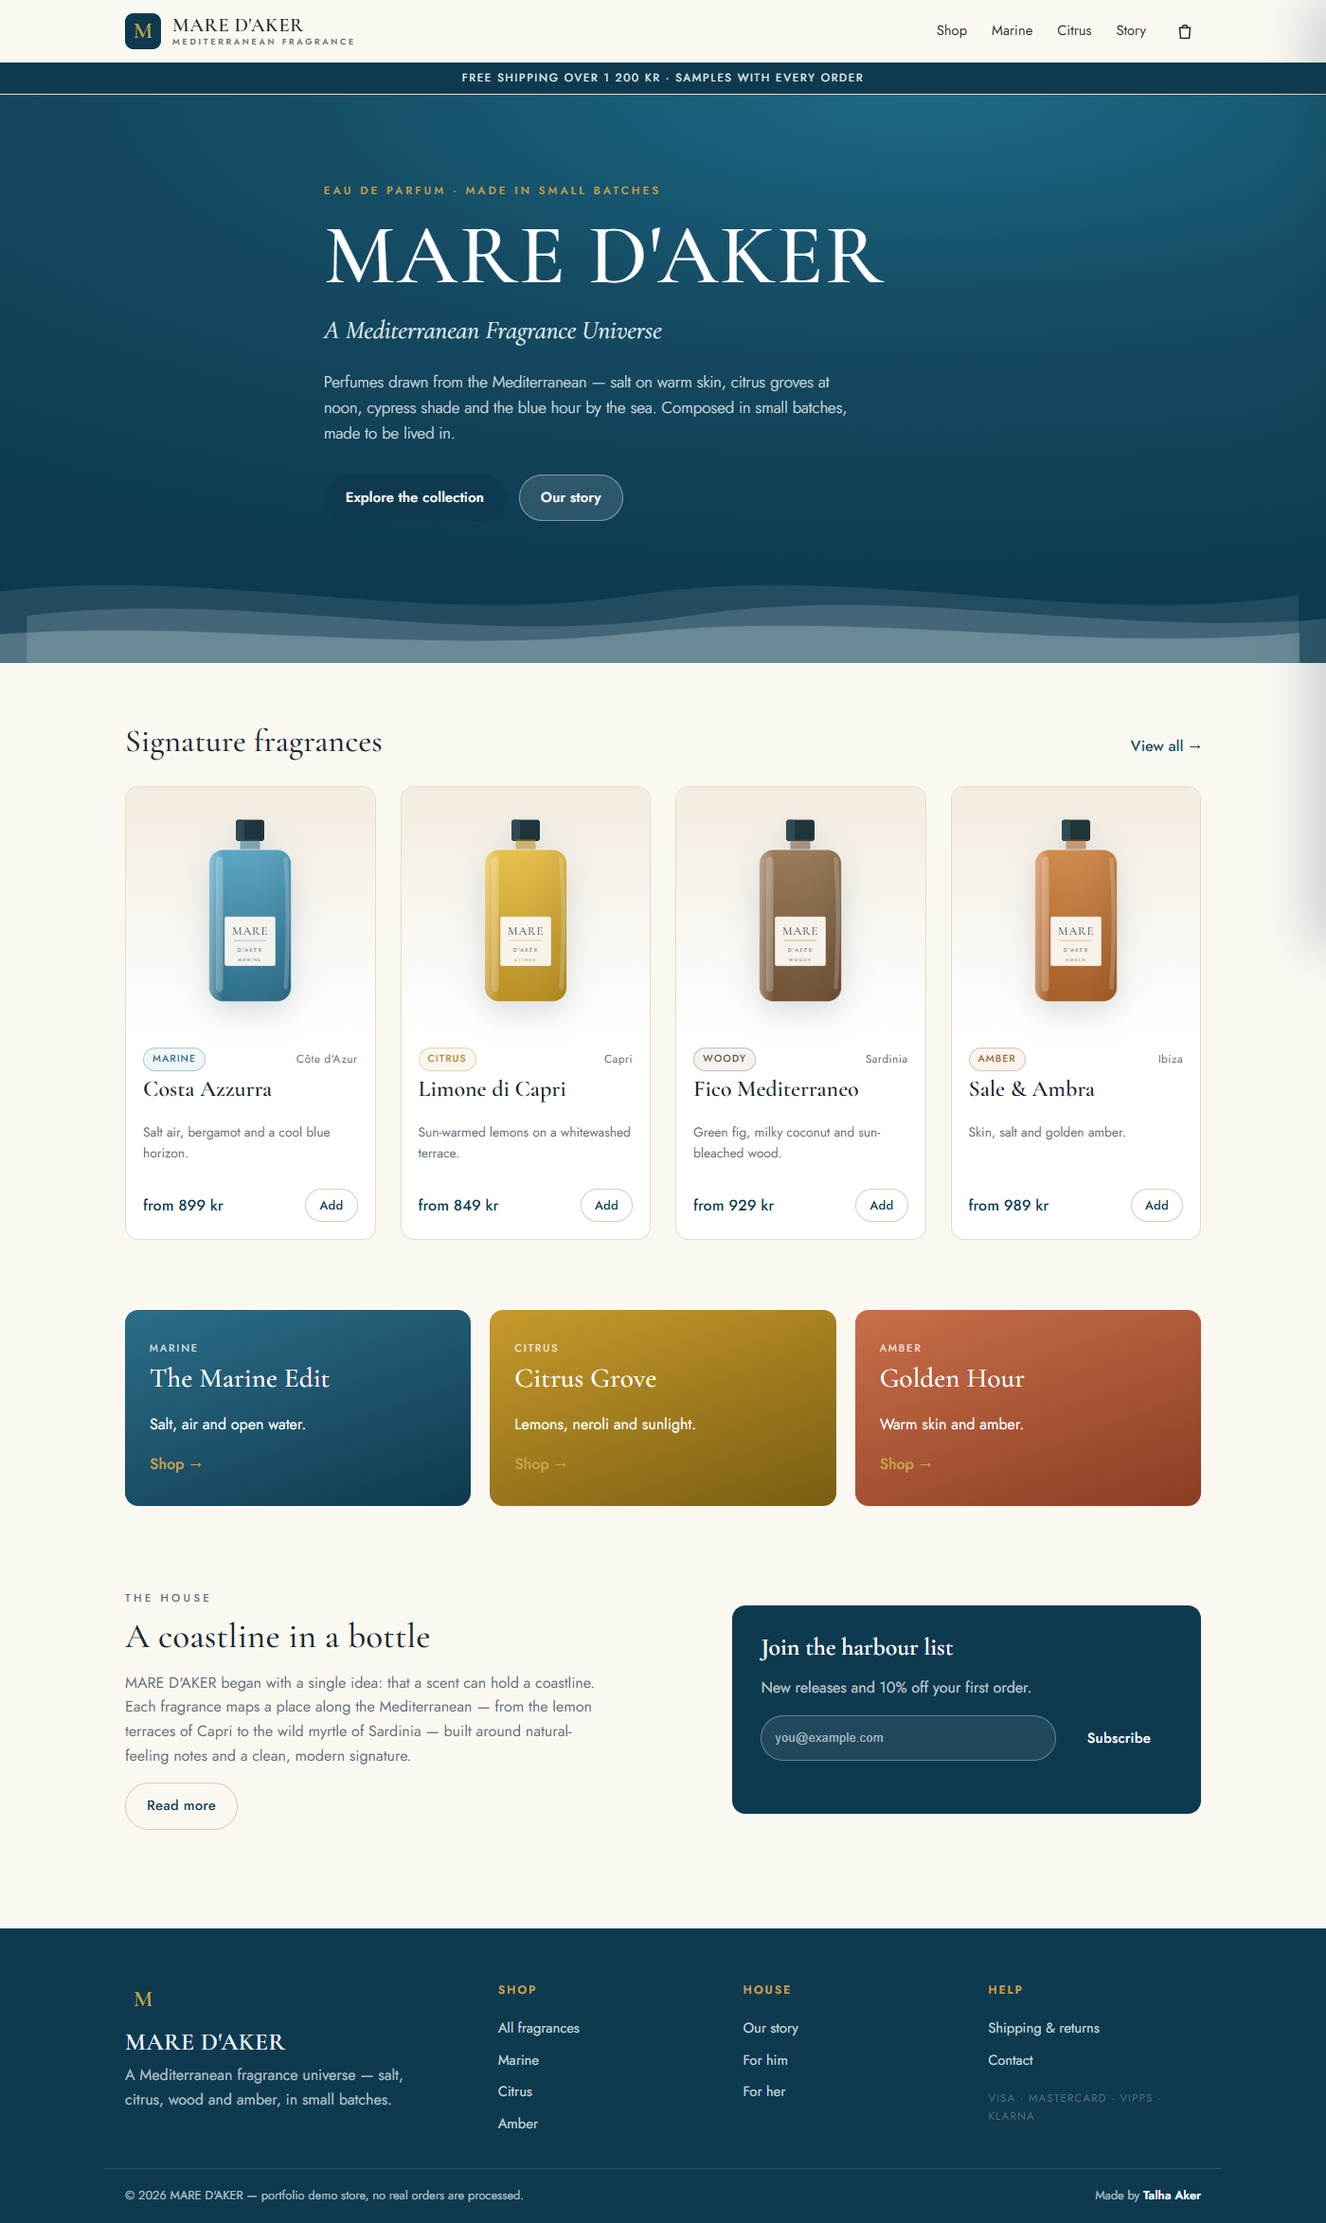
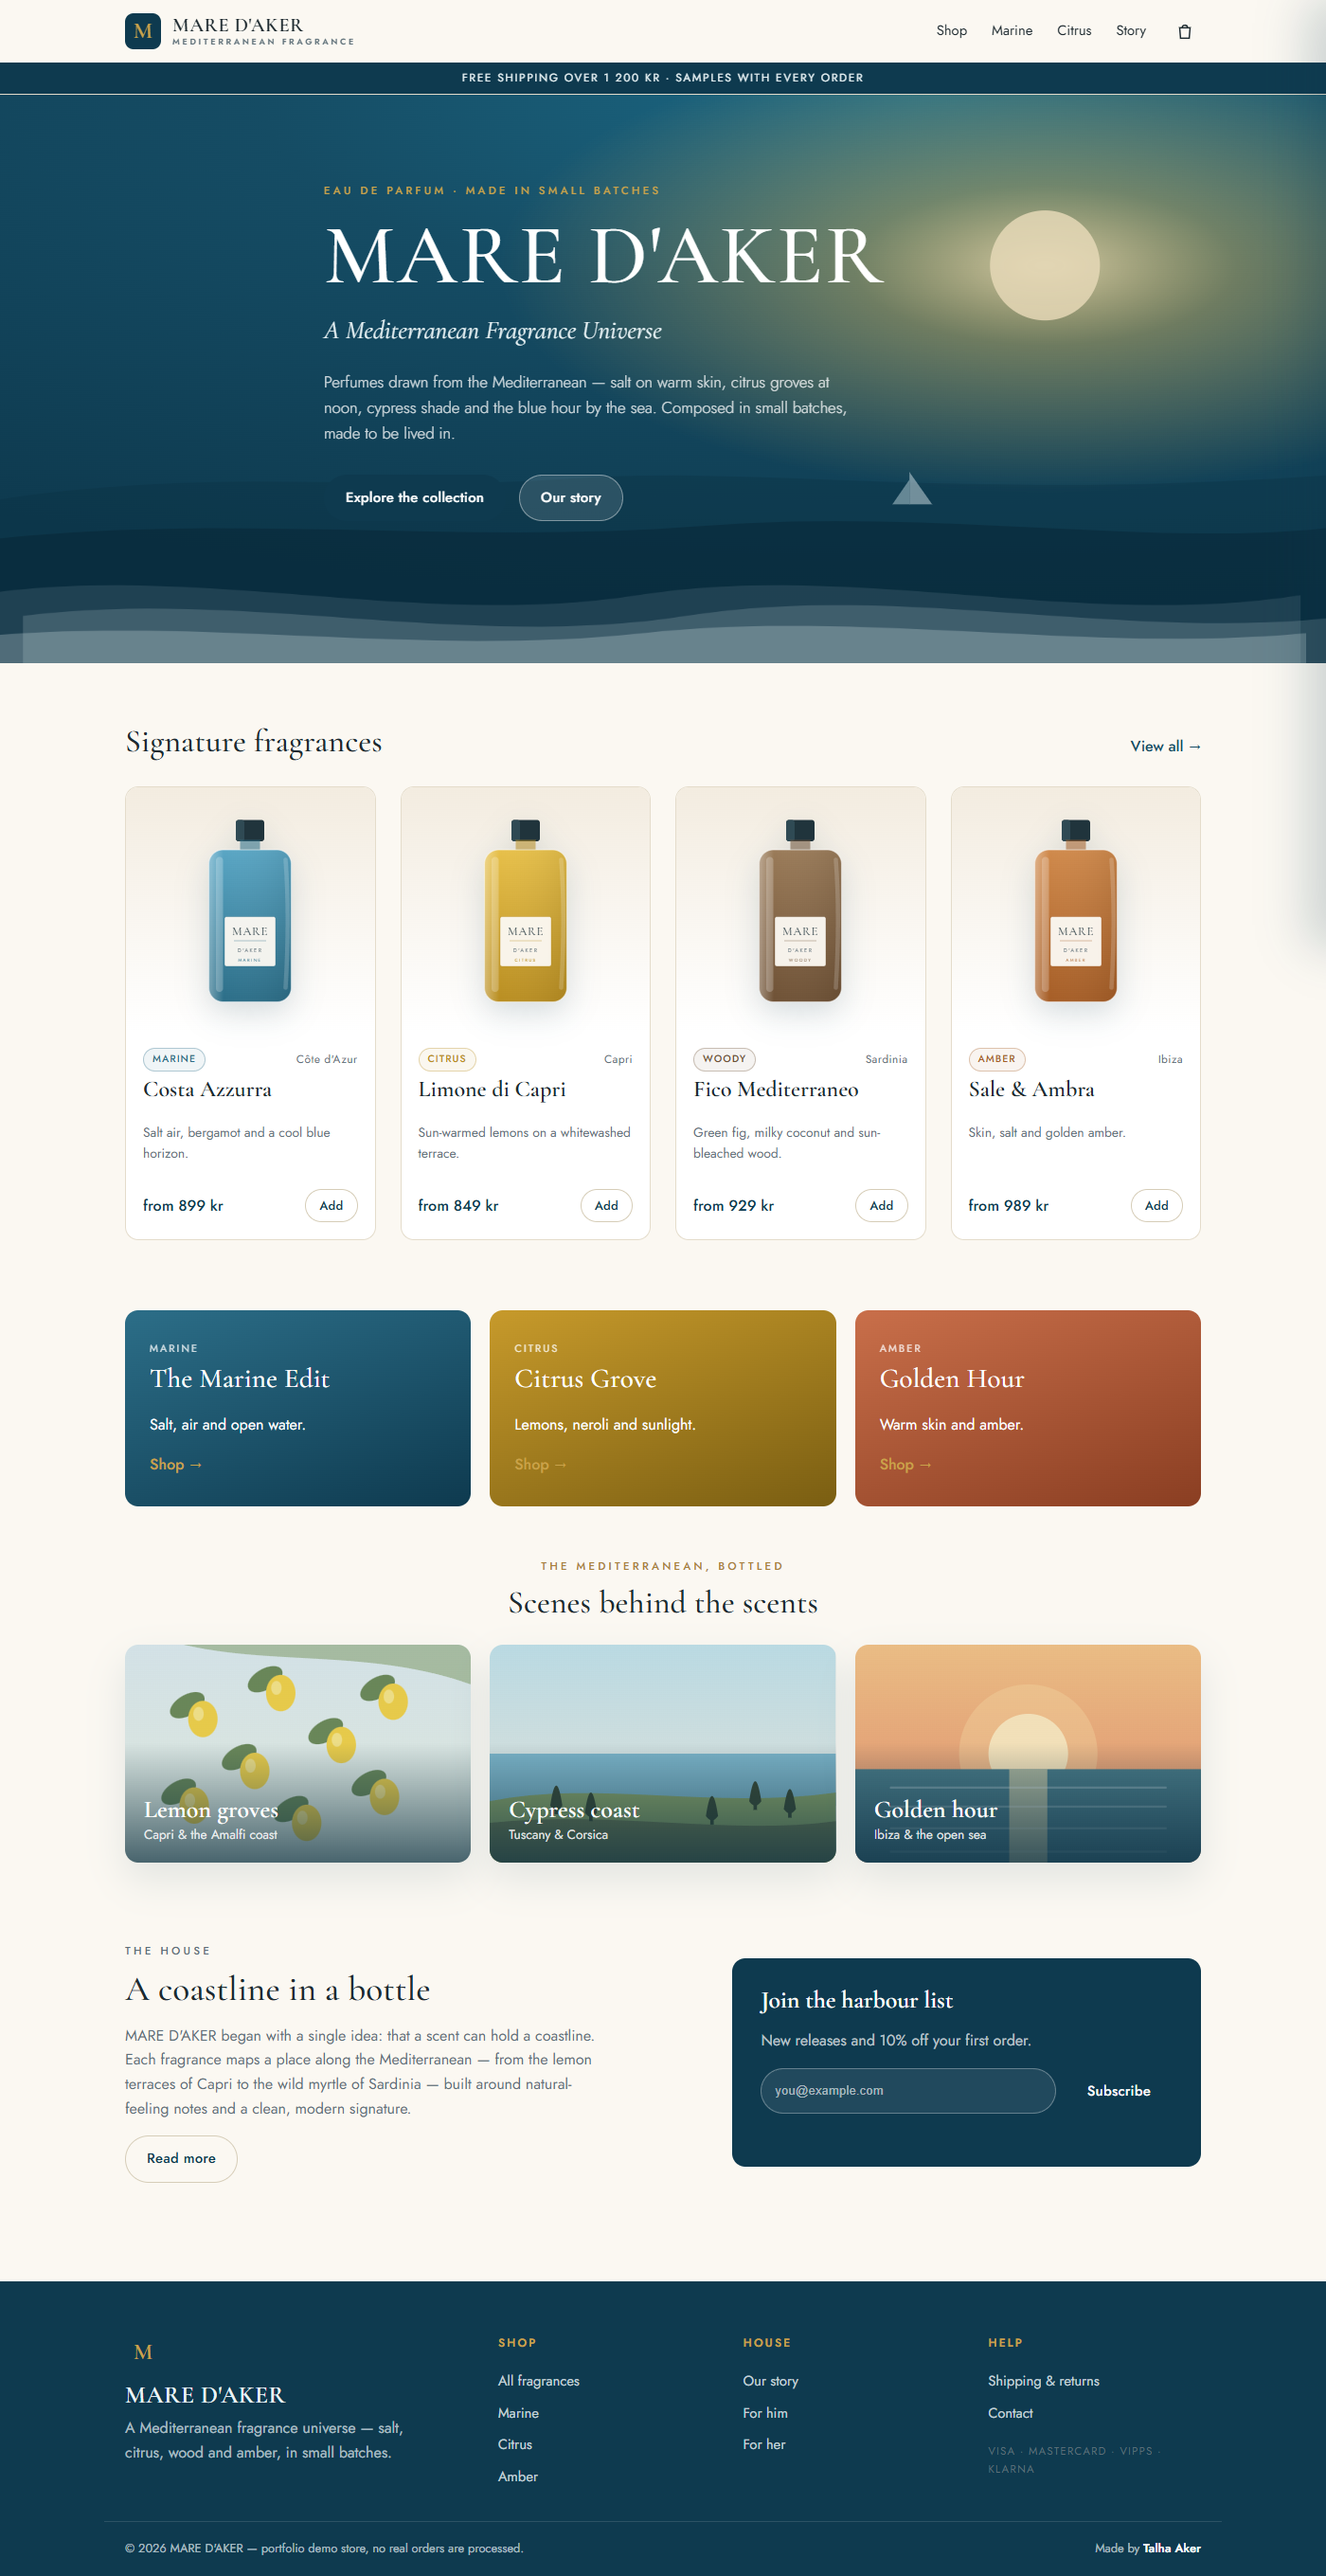
Add Mediterranean scenery: coastal hero backdrop and a scene band
Hand-built SVG scenes (sun + headlands behind the hero, plus lemon grove,
cypress coast and golden-hour vignettes) for more atmosphere. No image files.

diff --git a/js/art.js b/js/art.js
@@ -59,5 +59,61 @@ const Art = (() => {
 </svg>`;
   }
 
-  return { bottle, waves };
+  // Atmospheric coastline behind the hero: a low sun and layered headlands.
+  function heroScene() {
+    return `
+<svg class="hero-scene" viewBox="0 0 1440 600" preserveAspectRatio="xMidYMax slice" aria-hidden="true">
+  <defs>
+    <radialGradient id="sun" cx="78%" cy="30%" r="40%">
+      <stop offset="0%" stop-color="#FBE3B0" stop-opacity=".9"/>
+      <stop offset="35%" stop-color="#F2C45E" stop-opacity=".45"/>
+      <stop offset="100%" stop-color="#F2C45E" stop-opacity="0"/>
+    </radialGradient>
+  </defs>
+  <rect width="1440" height="600" fill="url(#sun)"/>
+  <circle cx="1123" cy="180" r="58" fill="#FCE6BE" opacity=".85"/>
+  <!-- distant headlands -->
+  <path d="M0,430 C240,390 420,420 620,405 C820,390 1040,430 1440,400 L1440,600 L0,600 Z" fill="#0A2E40" opacity=".35"/>
+  <path d="M0,470 C260,440 500,475 760,455 C1020,435 1240,480 1440,455 L1440,600 L0,600 Z" fill="#06202E" opacity=".45"/>
+  <!-- a small sail -->
+  <g opacity=".5"><path d="M980,432 L980,398 L1004,432 Z" fill="#EAF4F6"/><path d="M980,432 L980,406 L962,432 Z" fill="#CFE3E8"/></g>
+</svg>`;
+  }
+
+  // Minimalist Mediterranean vignettes used in the "scenery" band and About page.
+  function scene(kind) {
+    const uid = "s" + kind;
+    const sky = (c1, c2) => `<defs><linearGradient id="${uid}sky" x1="0" y1="0" x2="0" y2="1"><stop offset="0%" stop-color="${c1}"/><stop offset="100%" stop-color="${c2}"/></linearGradient></defs><rect width="400" height="300" fill="url(#${uid}sky)"/>`;
+    if (kind === "goldenhour") {
+      return `<svg class="scene" viewBox="0 0 400 300" preserveAspectRatio="xMidYMid slice" aria-hidden="true">
+        ${sky("#F7C98B", "#E88B6A")}
+        <circle cx="200" cy="150" r="46" fill="#FFF0CE" opacity=".95"/>
+        <circle cx="200" cy="150" r="80" fill="#FFE2A8" opacity=".35"/>
+        <rect y="168" width="400" height="132" fill="#2C6E88"/>
+        <rect y="168" width="400" height="132" fill="url(#${uid}sky)" opacity=".15"/>
+        <rect x="178" y="168" width="44" height="132" fill="#FFE7B0" opacity=".55"/>
+        ${[188,210,235,262].map((y,i)=>`<rect x="40" y="${y}" width="320" height="2.5" rx="1" fill="#EAF4F6" opacity="${.3-i*0.05}"/>`).join("")}
+      </svg>`;
+    }
+    if (kind === "cypress") {
+      return `<svg class="scene" viewBox="0 0 400 300" preserveAspectRatio="xMidYMid slice" aria-hidden="true">
+        ${sky("#BFE2EC", "#F3ECE0")}
+        <rect y="150" width="400" height="60" fill="#5AA6C4" opacity=".7"/>
+        <path d="M0,205 C120,180 260,215 400,195 L400,300 L0,300 Z" fill="#8FA86A"/>
+        <path d="M0,230 C140,215 280,245 400,228 L400,300 L0,300 Z" fill="#6E7A52"/>
+        ${[[70,210],[110,218],[300,205],[340,214],[250,222]].map(([x,y])=>`<path d="M${x},${y} q7,-46 14,0 q-7,10 -14,0Z" fill="#3C4A34"/><rect x="${x+5}" y="${y}" width="4" height="10" fill="#3C4A34"/>`).join("")}
+      </svg>`;
+    }
+    // lemons
+    return `<svg class="scene" viewBox="0 0 400 300" preserveAspectRatio="xMidYMid slice" aria-hidden="true">
+      ${sky("#DCEAF0", "#EAF1E2")}
+      <path d="M0,0 C120,60 260,20 400,70 L400,0 Z" fill="#7E9A5E" opacity=".5"/>
+      ${[[90,110],[180,80],[150,170],[250,140],[310,90],[300,200],[80,210],[210,230]].map(([x,y],i)=>`
+        <ellipse cx="${x-18}" cy="${y-16}" rx="22" ry="12" fill="#6E8B5A" transform="rotate(-30 ${x-18} ${y-16})"/>
+        <ellipse cx="${x}" cy="${y}" rx="17" ry="21" fill="#F2D24B"/>
+        <ellipse cx="${x-5}" cy="${y-6}" rx="6" ry="8" fill="#FBEFA6" opacity=".7"/>`).join("")}
+    </svg>`;
+  }
+
+  return { bottle, waves, heroScene, scene };
 })();

diff --git a/css/style.css b/css/style.css
@@ -72,13 +72,14 @@ section{scroll-margin-top:90px}
 /* ---------- hero ---------- */
 .hero{position:relative;overflow:hidden;color:#fff;
   background:radial-gradient(120% 90% at 70% 0,#1C6A86 0%,var(--sea) 42%,var(--sea-deep) 100%)}
-.hero-inner{position:relative;z-index:2;max-width:var(--wrap);margin:0 auto;padding:92px 22px 150px;max-width:760px}
+.hero-inner{position:relative;z-index:3;max-width:var(--wrap);margin:0 auto;padding:92px 22px 150px;max-width:760px}
 .hero .eyebrow{color:var(--gold)}
 .hero h1{font-size:clamp(3rem,8vw,5.6rem);font-weight:500;letter-spacing:2px;margin:0}
 .hero-tag{font-family:var(--serif);font-style:italic;font-size:clamp(1.2rem,3vw,1.7rem);color:var(--foam);margin:6px 0 20px}
 .hero-intro{max-width:560px;color:rgba(255,255,255,.82);font-weight:300;font-size:1.05rem}
 .hero-cta{display:flex;gap:14px;margin-top:30px;flex-wrap:wrap}
-.waves{position:absolute;left:0;right:0;bottom:-1px;width:100%;height:160px;z-index:1}
+.hero-scene{position:absolute;inset:0;width:100%;height:100%;z-index:1;opacity:.9;pointer-events:none}
+.waves{position:absolute;left:0;right:0;bottom:-1px;width:100%;height:160px;z-index:2}
 .waves path{transform-origin:center}
 .w1{animation:drift 13s ease-in-out infinite alternate}
 .w2{animation:drift 9s ease-in-out infinite alternate-reverse}
@@ -120,6 +121,19 @@ section{scroll-margin-top:90px}
 .coll-marine{background:linear-gradient(160deg,#2C6E88,#0E3A4F)}
 .coll-citrus{background:linear-gradient(160deg,#C79A2B,#7A5E12)}
 .coll-amber{background:linear-gradient(160deg,#C96F4A,#8A3E22)}
+
+/* ---------- scenery band ---------- */
+.scenery{max-width:var(--wrap);margin:0 auto;padding:30px 22px 20px}
+.section-head.center{display:block;text-align:center;margin-bottom:26px}
+.section-head.center h2{font-size:2.1rem}
+.scene-grid{display:grid;grid-template-columns:repeat(3,1fr);gap:20px}
+.scene-tile{position:relative;border-radius:var(--radius);overflow:hidden;min-height:230px;display:block;transition:.25s;box-shadow:var(--shadow)}
+.scene-tile:hover{transform:translateY(-4px)}
+.scene{position:absolute;inset:0;width:100%;height:100%}
+.scene-tile::after{content:"";position:absolute;inset:0;background:linear-gradient(to top,rgba(10,46,64,.72),rgba(10,46,64,.05) 55%)}
+.scene-cap{position:absolute;left:0;right:0;bottom:0;z-index:2;padding:18px 20px;color:#fff}
+.scene-cap h3{font-size:1.6rem;font-weight:600}
+.scene-cap p{font-size:.85rem;color:rgba(255,255,255,.85);margin:2px 0 0}
 
 /* ---------- story band + newsletter ---------- */
 .story-band{display:grid;grid-template-columns:1.2fr 1fr;gap:48px;align-items:center}
@@ -283,7 +297,7 @@ section{scroll-margin-top:90px}
   .product{grid-template-columns:1fr;gap:28px}
   .product-art{position:static;min-height:0}
   .cart-grid,.checkout-grid,.story-band{grid-template-columns:1fr;gap:28px}
-  .collections,.about-cols{grid-template-columns:1fr}
+  .collections,.about-cols,.scene-grid{grid-template-columns:1fr}
   .footer-grid{grid-template-columns:1fr 1fr}
 }
 @media (max-width:620px){

diff --git a/js/views.js b/js/views.js
@@ -32,6 +32,7 @@ const Views = (() => {
     const featured = PRODUCTS.filter((p) => p.featured).slice(0, 4);
     return `
     <section class="hero">
+      ${Art.heroScene()}
       <div class="hero-inner">
         <p class="eyebrow">Eau de Parfum · Made in small batches</p>
         <h1 class="display">${esc(BRAND.name)}</h1>
@@ -61,6 +62,15 @@ const Views = (() => {
           <p>${esc(c.copy)}</p>
           <span class="link-light">Shop →</span>
         </a>`).join("")}
+    </section>
+
+    <section class="scenery">
+      <div class="section-head center"><p class="eyebrow">The Mediterranean, bottled</p><h2 class="display">Scenes behind the scents</h2></div>
+      <div class="scene-grid">
+        <a class="scene-tile" href="#/shop?family=citrus">${Art.scene("lemons")}<div class="scene-cap"><h3 class="display">Lemon groves</h3><p>Capri &amp; the Amalfi coast</p></div></a>
+        <a class="scene-tile" href="#/shop?family=aromatic">${Art.scene("cypress")}<div class="scene-cap"><h3 class="display">Cypress coast</h3><p>Tuscany &amp; Corsica</p></div></a>
+        <a class="scene-tile" href="#/shop?family=amber">${Art.scene("goldenhour")}<div class="scene-cap"><h3 class="display">Golden hour</h3><p>Ibiza &amp; the open sea</p></div></a>
+      </div>
     </section>
 
     <section class="section story-band">
